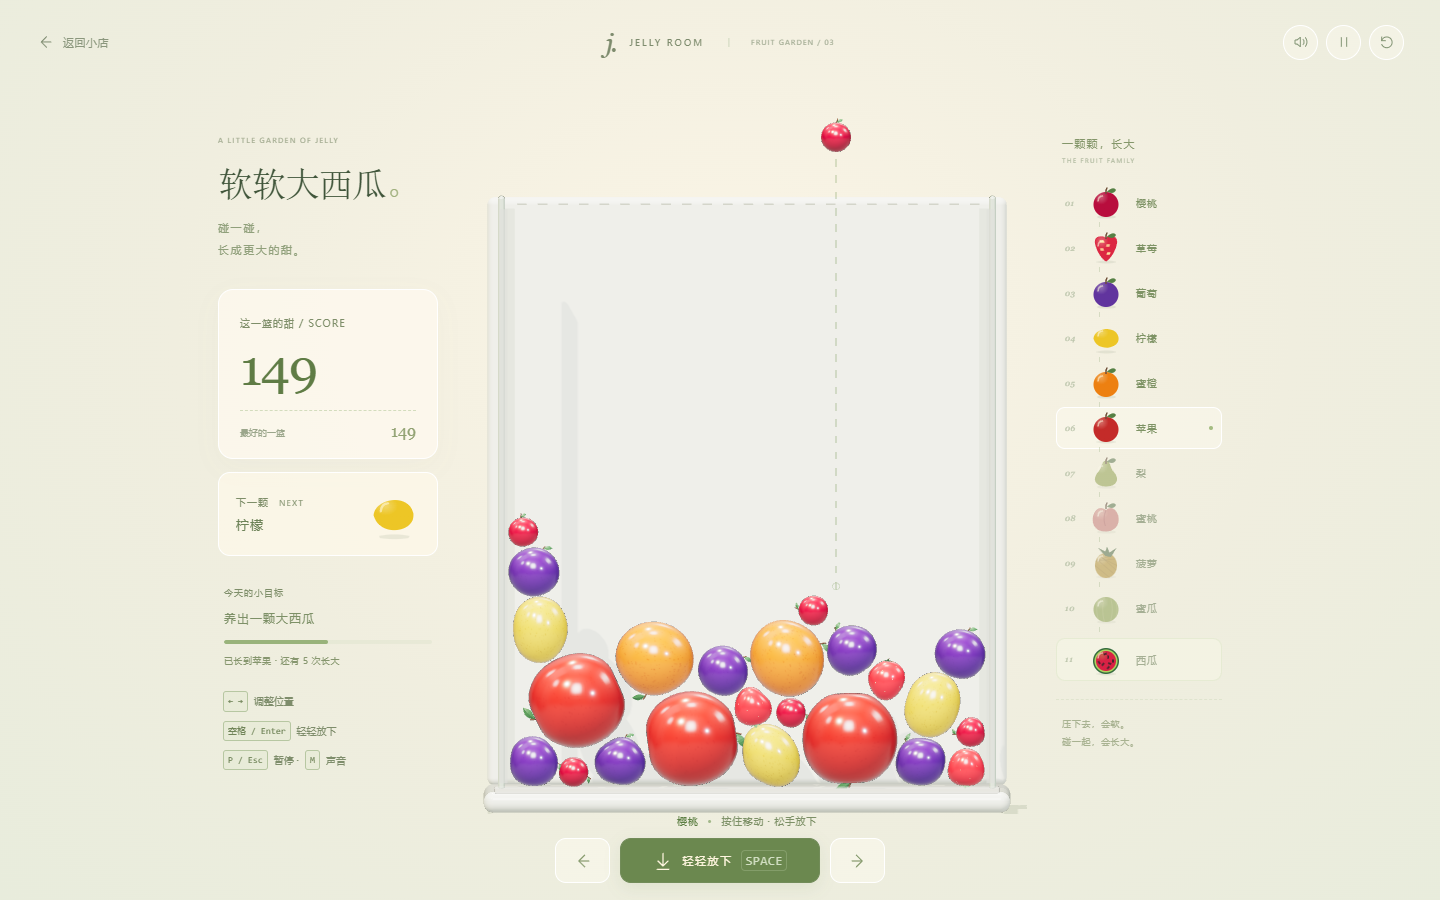
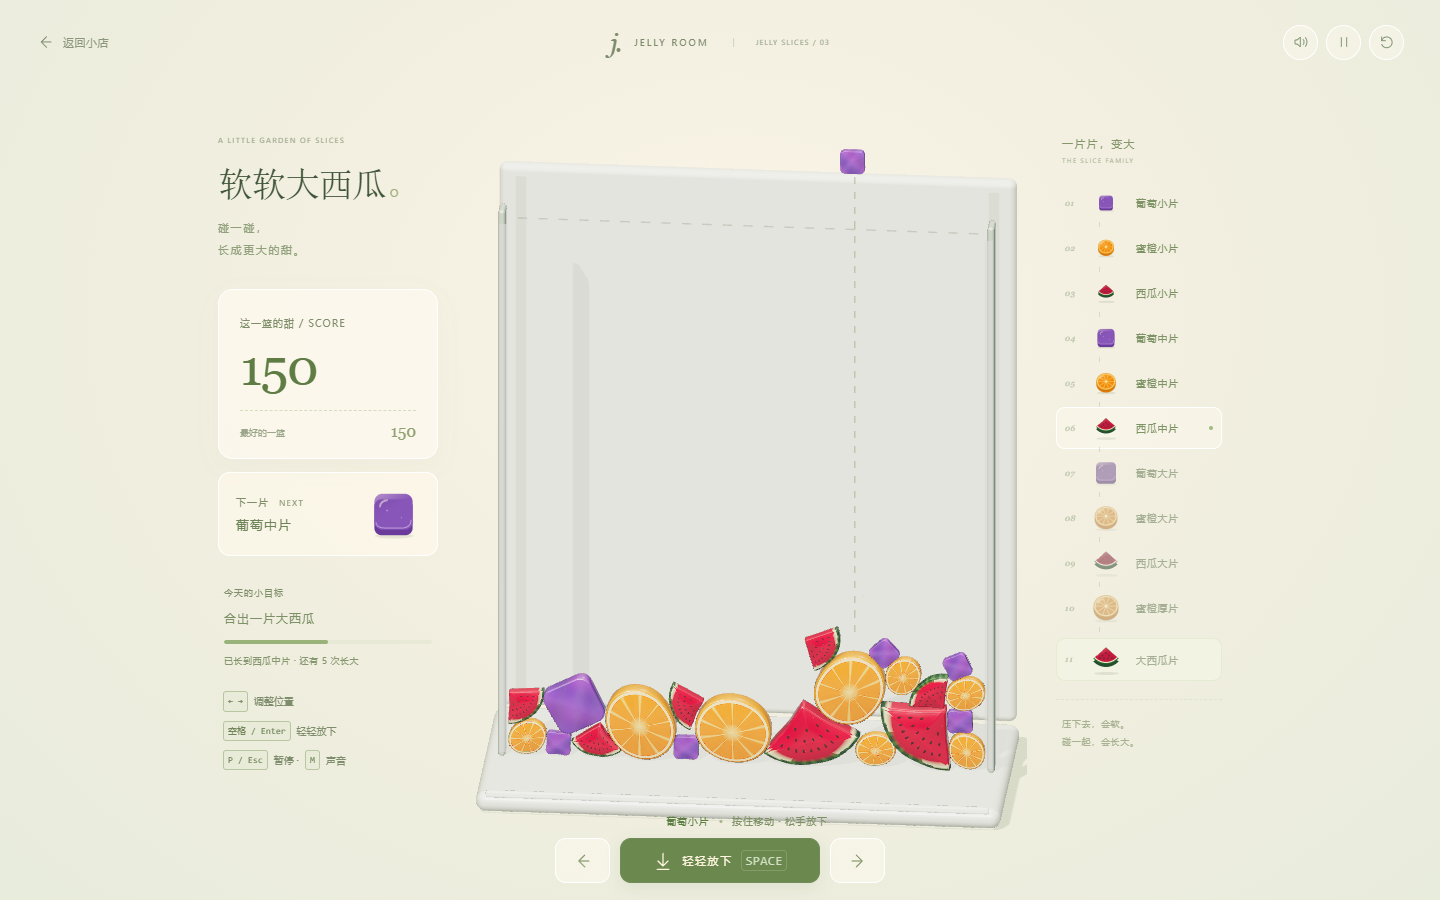
Show real original-slice gameplay and updated instructions

diff --git a/docs/使用说明.md b/docs/使用说明.md
@@ -4,11 +4,11 @@
 
 ## 果冻大西瓜
 
-从主菜单进入「果冻大西瓜」。移动鼠标瞄准，按住拖动后松手投下水果；手机也可以拖动瞄准、松手投放。画面下方的左右和投放按钮也能操作。
+从主菜单进入「果冻大西瓜」。移动鼠标瞄准，按住拖动后松手投下切片；手机也可以拖动瞄准、松手投放。画面下方的左右和投放按钮也能操作。
 
-同种水果碰到一起会融合成更大一级的水果：樱桃 → 草莓 → 葡萄 → 柠檬 → 蜜橙 → 苹果 → 梨 → 蜜桃 → 菠萝 → 蜜瓜 → 大西瓜。画面里可以看下一颗和成长图谱，合成得到分数。西瓜是最高级，合出后仍然可以继续玩。
+使用原来小店里的葡萄冻片、蜜橙切片和西瓜切片，共 11 个大小等级。同一级切片碰到一起会融合成更大一级；口味会随等级变化，最后合出大西瓜片。画面里可以看下一片和成长图谱，合成得到分数；合出大西瓜片后仍然可以继续玩。
 
-投放之间有短暂间隔。小果冻可以滚进缝隙，同种水果在挤压碰撞中也能合成，先看下一颗再选择落点。水果的接触处会压软、回弹，视觉变形不会把它变成另一种水果。
+投放之间有短暂间隔。小果冻可以滚进缝隙，同一级切片在挤压碰撞中也能合成，先看下一颗再选择落点。切片的接触处会压软、回弹，果皮、切面和籽也一起变形。
 
 水果持续堆过上方危险线会触发倒计时，及时融合、把高度降下来就能解除危险；刚丢下、还没落稳的水果有宽容时间。空间不足时这一局结束，可以重开挑战。
 
